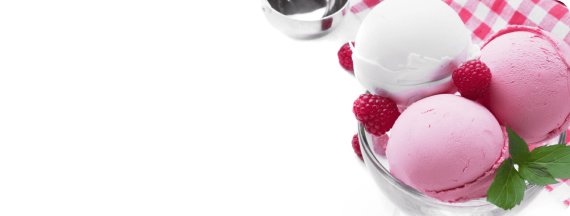
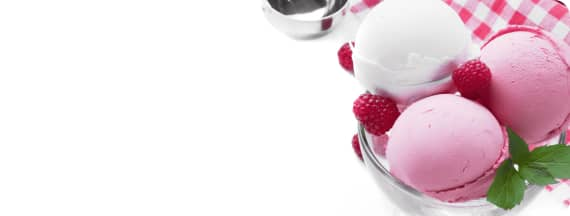
Сжимает изображения, исправляет ошибки.

diff --git a/catalog.html b/catalog.html
@@ -3,6 +3,7 @@
   <head>
     <meta charset="utf-8">
     <title>HTML Academy: Глейси</title>
+    <link rel="icon" type="image/png" sizes="32x32" href="img/favicon.png">
     <link rel="stylesheet" href="styles/style.css">
   </head>
   <body>
@@ -70,49 +71,49 @@
             <a class="navigation-link" href="#">
               <span class="visually-hidden">Корзина</span>
               <svg class="navigation-svg" width="17" height="16" viewBox="0 0 17 16" fill="none" xmlns="http://www.w3.org/2000/svg">
-                <path fill-rule="evenodd" clip-rule="evenodd" d="M1.31254 0.489586C0.944351 0.489586 0.645874 0.788063 0.645874 1.15625C0.645874 1.52444 0.944351 1.82292 1.31254 1.82292H3.37353L3.91319 4.5192C3.91612 4.538 3.91985 4.55654 3.92432 4.57479L5.01308 10.0146L5.0132 10.0151C5.10338 10.4685 5.35008 10.8757 5.71016 11.1656C6.06854 11.4541 6.51652 11.608 6.97639 11.6009H13.3011C13.761 11.608 14.209 11.4541 14.5673 11.1656C14.9276 10.8756 15.1743 10.4681 15.2644 10.0146L15.2644 10.0146L15.2654 10.0096L16.3084 4.54045C16.3456 4.34528 16.2938 4.14368 16.1672 3.9906C16.0405 3.83751 15.8522 3.7489 15.6535 3.7489H5.11879L4.57369 1.02541C4.51133 0.713843 4.23774 0.489586 3.91999 0.489586H1.31254ZM6.32068 9.75385L5.38566 5.08223H14.8477L13.9562 9.75686C13.9268 9.90268 13.8472 10.0336 13.7313 10.1269C13.6148 10.2207 13.4691 10.2705 13.3196 10.2676L13.3196 10.2675H13.3068H6.9707V10.2674L6.95793 10.2676C6.80844 10.2705 6.66271 10.2207 6.54624 10.1269C6.42978 10.0332 6.35 9.90146 6.32087 9.75481L6.32068 9.75385ZM5.21043 14.1936C5.21043 13.4657 5.80055 12.8755 6.5285 12.8755C7.25644 12.8755 7.84656 13.4657 7.84656 14.1936C7.84656 14.9216 7.25644 15.5117 6.5285 15.5117C5.80055 15.5117 5.21043 14.9216 5.21043 14.1936ZM12.3804 14.1936C12.3804 13.4657 12.9705 12.8755 13.6985 12.8755C14.4264 12.8755 15.0166 13.4657 15.0166 14.1936C15.0166 14.9216 14.4264 15.5117 13.6985 15.5117C12.9705 15.5117 12.3804 14.9216 12.3804 14.1936Z" fill="#2D3440"/>
+                <path fill-rule="evenodd" clip-rule="evenodd" d="M0.645874 1.15641C0.645874 0.788223 0.944351 0.489746 1.31254 0.489746H3.91999C4.23774 0.489746 4.51133 0.714003 4.57369 1.02557L5.11879 3.74906H15.6535C15.8522 3.74906 16.0405 3.83767 16.1672 3.99076C16.2938 4.14384 16.3456 4.34544 16.3084 4.54061L15.2654 10.0097L15.2644 10.0147L15.2644 10.0147C15.1743 10.4683 14.9276 10.8757 14.5673 11.1657C14.209 11.4542 13.761 11.6082 13.3011 11.601H6.97639C6.51652 11.6082 6.06854 11.4542 5.71016 11.1657C5.35008 10.8759 5.10338 10.4686 5.0132 10.0153L5.01308 10.0147L3.92432 4.57495C3.91985 4.5567 3.91612 4.53816 3.91319 4.51936L3.37353 1.82308H1.31254C0.944351 1.82308 0.645874 1.5246 0.645874 1.15641ZM6.5285 12.8757C5.80055 12.8757 5.21043 13.4658 5.21043 14.1938C5.21043 14.9217 5.80055 15.5118 6.5285 15.5118C7.25644 15.5118 7.84656 14.9217 7.84656 14.1938C7.84656 13.4658 7.25644 12.8757 6.5285 12.8757ZM13.6985 12.8757C12.9705 12.8757 12.3804 13.4658 12.3804 14.1938C12.3804 14.9217 12.9705 15.5118 13.6985 15.5118C14.4264 15.5118 15.0166 14.9217 15.0166 14.1938C15.0166 13.4658 14.4264 12.8757 13.6985 12.8757Z" fill="#2D3440"/>
               </svg>
               2 товара
             </a>
             <div class="popover popover-busket-catalog">
-                <h2 class="popover-title">Корзина</h2>
-                <ul class="cart-items-list">
-                  <li class="cart-item">
-                    <img class="product-cart-item" src="img/ice-cream-raspberry.png" width="46" height="46">
-                    <div class="product-info">
-                      <p class="cart-item-title">Малинка</p>
-                      <p class="product--price-info">1 кг х 310 ₽</p>
-                    </div>
-                    <p class="cart-item-price">310 ₽</p>
-                    <button type="button" class="cart-item-button">
-                      <svg width="14" height="14" viewBox="0 0 14 14" fill="none" xmlns="http://www.w3.org/2000/svg">
-                        <path fill-rule="evenodd" clip-rule="evenodd" d="M12.8858 2.05482C13.1461 1.79447 13.1461 1.37236 12.8858 1.11201C12.6254 0.851661 12.2033 0.851661 11.943 1.11201L6.99877 6.0562L2.05458 1.11201C1.79423 0.851661 1.37212 0.851661 1.11177 1.11201C0.851417 1.37236 0.851417 1.79447 1.11177 2.05482L6.05596 6.99901L1.11177 11.9432C0.851417 12.2036 0.851417 12.6257 1.11177 12.886C1.37212 13.1464 1.79423 13.1464 2.05458 12.886L6.99877 7.94182L11.943 12.886C12.2033 13.1464 12.6254 13.1464 12.8858 12.886C13.1461 12.6257 13.1461 12.2036 12.8858 11.9432L7.94158 6.99901L12.8858 2.05482Z" fill="#2D3440"/>
-                      </svg>
-                      <span class="visually-hidden">Удалить из корзины</span>
-                    </button>
-                  </li>
-                  <li class="cart-item">
-                    <img class="product-cart-item" src="img/ice-cream-bubble-gum.png" width="46" height="46">
-                    <div class="product-info">
-                      <p class="cart-item-title">Бабл-гам</p>
-                      <p class="product--price-info">1,5 кг х 320 ₽</p>
-                    </div>
-                    <p class="cart-item-price">480 ₽</p>
-                    <button type="button" class="cart-item-button">
-                      <svg width="14" height="14" viewBox="0 0 14 14" fill="none" xmlns="http://www.w3.org/2000/svg">
-                        <path fill-rule="evenodd" clip-rule="evenodd" d="M12.8858 2.05482C13.1461 1.79447 13.1461 1.37236 12.8858 1.11201C12.6254 0.851661 12.2033 0.851661 11.943 1.11201L6.99877 6.0562L2.05458 1.11201C1.79423 0.851661 1.37212 0.851661 1.11177 1.11201C0.851417 1.37236 0.851417 1.79447 1.11177 2.05482L6.05596 6.99901L1.11177 11.9432C0.851417 12.2036 0.851417 12.6257 1.11177 12.886C1.37212 13.1464 1.79423 13.1464 2.05458 12.886L6.99877 7.94182L11.943 12.886C12.2033 13.1464 12.6254 13.1464 12.8858 12.886C13.1461 12.6257 13.1461 12.2036 12.8858 11.9432L7.94158 6.99901L12.8858 2.05482Z" fill="#2D3440"/>
-                      </svg>
-                      <span class="visually-hidden">Удалить из корзины</span>
-                    </button>
-                  </li>
-                  <div class="checkout">
-                    <button class="button button-send" type="submit">Оформить заказ</button>
-                    <span class="result">
-                      <p class="result-text">Итого:</p>
-                      <p class="result-text">790 ₽</p>
-                    </span>
+              <h2 class="popover-title">Корзина</h2>
+              <ul class="cart-items-list">
+                <li class="cart-item">
+                  <img class="product-cart-item" src="img/ice-cream-raspberry.png" width="46" height="46" alt="Малиновое мороженое">
+                  <div class="product-info">
+                    <p class="cart-item-title">Малинка</p>
+                    <p class="product--price-info">1 кг х 310 ₽</p>
                   </div>
-                </ul>
+                  <p class="cart-item-price">310 ₽</p>
+                  <button type="button" class="cart-item-button">
+                    <svg width="14" height="14" viewBox="0 0 14 14" fill="none" xmlns="http://www.w3.org/2000/svg">
+                      <path fill-rule="evenodd" clip-rule="evenodd" d="M12.8858 2.05482C13.1461 1.79447 13.1461 1.37236 12.8858 1.11201C12.6254 0.851661 12.2033 0.851661 11.943 1.11201L6.99877 6.0562L2.05458 1.11201C1.79423 0.851661 1.37212 0.851661 1.11177 1.11201C0.851417 1.37236 0.851417 1.79447 1.11177 2.05482L6.05596 6.99901L1.11177 11.9432C0.851417 12.2036 0.851417 12.6257 1.11177 12.886C1.37212 13.1464 1.79423 13.1464 2.05458 12.886L6.99877 7.94182L11.943 12.886C12.2033 13.1464 12.6254 13.1464 12.8858 12.886C13.1461 12.6257 13.1461 12.2036 12.8858 11.9432L7.94158 6.99901L12.8858 2.05482Z" fill="#2D3440"/>
+                    </svg>
+                    <span class="visually-hidden">Удалить из корзины</span>
+                  </button>
+                </li>
+                <li class="cart-item">
+                  <img class="product-cart-item" src="img/ice-cream-bubble-gum.png" width="46" height="46" alt="Мороженое со вкусом бабл-гам">
+                  <div class="product-info">
+                    <p class="cart-item-title">Бабл-гам</p>
+                    <p class="product--price-info">1,5 кг х 320 ₽</p>
+                  </div>
+                  <p class="cart-item-price">480 ₽</p>
+                  <button type="button" class="cart-item-button">
+                    <svg width="14" height="14" viewBox="0 0 14 14" fill="none" xmlns="http://www.w3.org/2000/svg">
+                      <path fill-rule="evenodd" clip-rule="evenodd" d="M12.8858 2.05482C13.1461 1.79447 13.1461 1.37236 12.8858 1.11201C12.6254 0.851661 12.2033 0.851661 11.943 1.11201L6.99877 6.0562L2.05458 1.11201C1.79423 0.851661 1.37212 0.851661 1.11177 1.11201C0.851417 1.37236 0.851417 1.79447 1.11177 2.05482L6.05596 6.99901L1.11177 11.9432C0.851417 12.2036 0.851417 12.6257 1.11177 12.886C1.37212 13.1464 1.79423 13.1464 2.05458 12.886L6.99877 7.94182L11.943 12.886C12.2033 13.1464 12.6254 13.1464 12.8858 12.886C13.1461 12.6257 13.1461 12.2036 12.8858 11.9432L7.94158 6.99901L12.8858 2.05482Z" fill="#2D3440"/>
+                    </svg>
+                    <span class="visually-hidden">Удалить из корзины</span>
+                  </button>
+                </li>
+              </ul>
+              <div class="checkout">
+                <button class="button button-send" type="submit">Оформить заказ</button>
+                <div class="result">
+                  <p class="result-text">Итого:</p>
+                  <p class="result-text">790 ₽</p>
+                </div>
+              </div>
             </div>
           </li>
         </ul>
@@ -141,7 +142,7 @@
             <h2 class="visually-hidden">Список товаров с фильтрами</h2>
             <form class="sorting-type">
               <label class="sorting-filter catalog-filter-group" for="sorting">
-                <p class="filter-title">Сортировка</p>
+                <span class="filter-title">Сортировка</span>
                 <select class="select-control" id="sorting" name="sorting">
                   <option value="popular">по популярности</option>
                   <option value="cheap">Сначала дешёвое</option>
@@ -151,7 +152,7 @@
 
               <fieldset class="catalog-filter-group group-range">
                 <div class="range">
-                  <legend class="catalog-filter-title">Цена:</legend>
+                  <span class="catalog-filter-title">Цена:</span>
                   <div class="range-wrapper-inputs">
                     <label class="catalog-filter-label">
                       <input class="range-input" type="number" value="100" name="min-price"> ₽
@@ -520,7 +521,7 @@
           </ul>
         </div>
         <div class="copyright">
-          <img class="logo-htmlacademy" src="img/logo-htmlacademy.svg" alt="Логотип HTML академии">
+          <img class="logo-htmlacademy" src="img/logo-htmlacademy.svg" width="93" height="26" alt="Логотип HTML академии">
           <p class="about-text">Сделано в <a class="htmlacademy-link" href="https://htmlacademy.ru/">.html academy</a> © 2021</p>
         </div>
       </div>

diff --git a/styles/style.css b/styles/style.css
@@ -545,7 +545,8 @@ body {
     stroke: black;
 }
 
-.button-slide:focus {
+.button-slide:focus,
+.button-slide:active {
     border: 2px solid #2D3440;
     stroke: black;
     background: rgba(252, 252, 252, 0.3);
@@ -610,7 +611,8 @@ body {
     border-radius: 50%;
 }
 
-.button-social:focus .button-social-svg{
+.button-social:focus .button-social-svg,
+.button-social:active .button-social-svg{
     background: #2D3440;
     border: 2px solid #2D3440;
     border-radius: 50%;
@@ -755,7 +757,8 @@ h4 {
     fill: black;
 }
 
-.button-variation:focus {
+.button-variation:focus,
+.button-variation:active {
     border: 2px solid #2D3440;
     background: #FF2F64;
 }
@@ -1024,7 +1027,8 @@ h4 {
   border-color: #2D3440;
 }
 
-.field:focus {
+.field:focus,
+.field:active {
     border: 1px solid #2D3440;
     border-radius: 4px;
     color: #2D3440;
@@ -1416,7 +1420,8 @@ h3 {
     background-color: rgb(99%, 99%, 99%, 0.5);
 }
 
-.select-control:focus {
+.select-control:focus,
+.select-control:active {
     background-color: rgb(99%, 99%, 99%, 0.4);
     outline: 3px solid #FCFCFC;
 }
@@ -1457,6 +1462,7 @@ h3 {
 .filter-title {
     margin: 0;
     padding-left: 16px;
+    font-weight: normal;
 }
 
 .group-range {
@@ -1665,7 +1671,8 @@ h3 {
     border: 2px solid rgb(100%, 69%, 76%, 0.3);
 }
 
-.button-filters:focus {
+.button-filters:focus,
+.button-filters:active {
     border: 2px solid #2D3440;
 }
 
@@ -1834,7 +1841,8 @@ h3 {
     border: 1px solid #FCFCFC;
 }
 
-.pagination-link:focus {
+.pagination-link:focus,
+.pagination-link:active {
     background: rgba(252, 252, 252, 0.3);
     border: 1px solid #2D3440;
 }

diff --git a/index.html b/index.html
@@ -3,6 +3,7 @@
   <head>
     <meta charset="utf-8">
     <title>HTML Academy: Глейси</title>
+    <link rel="icon" type="image/png" sizes="32x32" href="img/favicon.png">
     <link rel="stylesheet" href="styles/style.css">
   </head>
   <body>
@@ -492,7 +493,7 @@
           </ul>
         </div>
         <div class="copyright">
-          <img class="logo-htmlacademy" src="img/logo-htmlacademy.svg" alt="Логотип HTML академии">
+          <img class="logo-htmlacademy" src="img/logo-htmlacademy.svg" width="93" height="26" alt="Логотип HTML академии">
           <p class="about-text">Сделано в <a class="htmlacademy-link" href="https://htmlacademy.ru/">.html academy</a> © 2021</p>
         </div>
       </div>
